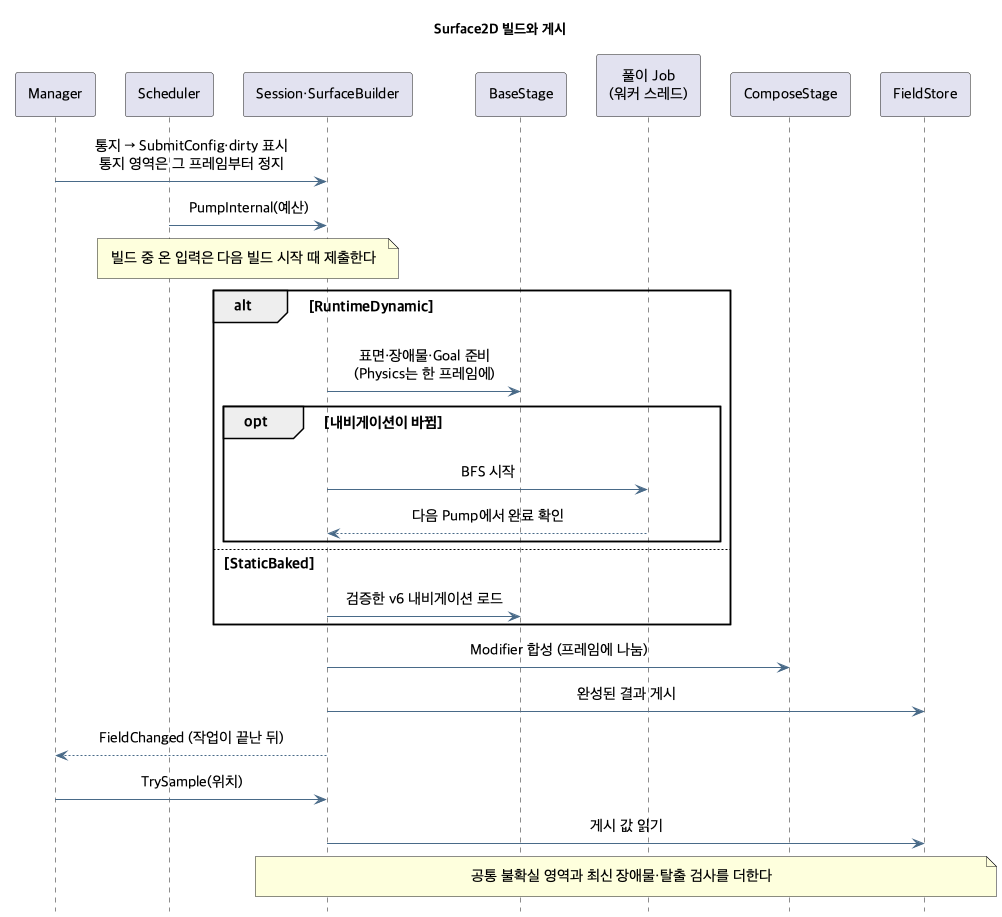
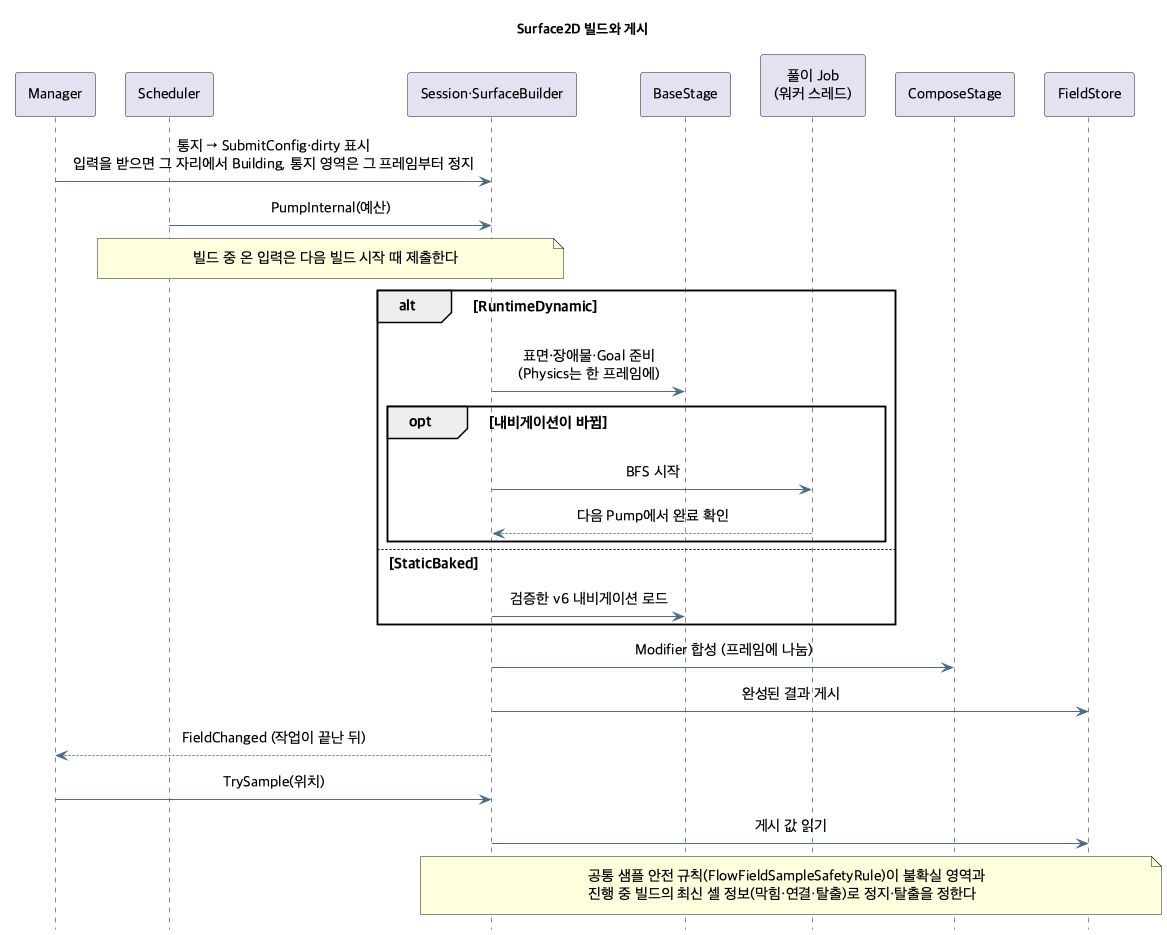
문서의 샘플 안전 규칙 위치와 빌드 흐름 그림을 지금 구조에 맞춤
- 두 모드 공통인 샘플 안전 규칙 설명을 Volume3D 절에서 "수명과 게시 규칙" 절로 옮긴다
- Volume 흐름 그림에서 지금은 없는 장애물 추적기와 SafetyState를 Session의 등록부와
  게시 필드로 바꾸고, 두 그림 모두 조회가 공통 규칙(FlowFieldSampleSafetyRule)을 거치고
  입력을 받으면 그 자리에서 Building이 된다는 것을 적는다. PNG를 다시 렌더링한다

diff --git a/ToyProject/Assets/_FlowField/Docs/TechnicalNotes.md b/ToyProject/Assets/_FlowField/Docs/TechnicalNotes.md
@@ -36,7 +36,13 @@ Player 측정(`PlayerProbe` 폴더, `Tools/run-player-probe.sh`)은 Editor와 `F
 ## 수명과 게시 규칙
 
 - **입력:** Builder는 최신 요청 한 벌과 대기 표시만 보관합니다(`FlowFieldRequestInbox`). Volume은 빌드 시작 때 요청을 BuildContext에 고정하고, Surface는 풀이가 끝나면 최신 요청으로 합성합니다. 빌드 중 온 입력은 다음 빌드로 넘기고, 그동안 두 모드 모두 Building을 유지합니다. Ready에서 받은 입력(설정, Goal, 장애물, Modifier)은 Session이 그 자리에서 Building으로 바꿉니다. 그래서 명령 직후 `State`와 `IsRebuilding`이 두 모드에서 같고, 다음 Pump를 기다리지 않습니다. 할 일이 없어진 Building은 게시된 필드가 있으면 Ready로 돌아갑니다.
-- **게시:** 완성된 결과만 게시하고, 일반 조회는 게시 값을 읽은 뒤 최신 장애물·탈출 안전성 검사를 더합니다.
+- **게시:** 완성된 결과만 게시하고, 일반 조회는 게시 값을 읽은 뒤 아래 샘플 안전 규칙을 적용합니다.
+- **샘플 안전 규칙(`FlowFieldSampleSafetyRule`, 두 모드·두 Bake 모드 공통):** 게시 값을 읽은 뒤 아래 순서로 덮어씁니다. "위험한 칸"은 불확실 영역에 있거나, 최신 정보에서 막혔거나, 걸을 수 없는(Surface 지면 없음) 칸입니다.
+  1. 지금 칸이 불확실 영역이거나 걸을 수 없으면 정지합니다.
+  2. 지금 칸이 막혔으면 탈출 방향으로 내보냅니다. 탈출 방향이 없거나, 그 방향 이웃이 격자 밖이거나 불확실 영역이거나 걸을 수 없으면 정지합니다. 이웃이 막힌 것은 괜찮습니다(장애물 깊은 곳에서는 여러 칸을 지나 빠져나갑니다).
+  3. 다음 칸이 있으면 지금 칸과 다음 칸을 감싸는 칸 중 하나라도 위험하거나 그 방향 연결이 끊겼으면 정지합니다.
+  4. Default Direction 칸(`NextCells == -1`)은 기본 방향의 축 부호로 갈 수 있는 이웃 조합 중 하나라도 격자 밖이거나 위험하면 정지합니다.
+  - "최신 정보"는 Surface의 경우 진행 중인 빌드의 작업 공간이 게시 필드와 같은 격자·지면일 때의 막힘·지면·연결·탈출이고, 그 밖에는 게시 필드입니다. 세션 상태(`IsRebuilding`)는 보지 않습니다.
 - **끝난 풀이:** 새 입력이 들어와 있어도 게시합니다. 계속 움직이는 Goal 때문에 결과가 끊기지 않게 하기 위해서입니다. Grid나 설정이 바뀌었거나 Goal이 사라진 경우만 거부합니다.
 - **Revision:** 두 모드 모두 게시 내용(셀 상태, 방향, 속도, Goal)이 실제로 바뀔 때만 증가하고 `FieldChanged`를 보냅니다. Volume은 `FlowFieldField.HasSameContent`(memcmp)로 비교합니다. 내용이 같아도 요청 스냅샷 갱신, 불확실 영역 정리, Ready 전환은 그대로 합니다.
 - **재진입 없음:** `FlowFieldExecutionBoundary`가 이벤트를 큐에 모아 가장 바깥 작업이 끝난 뒤 전달합니다. `Release`·`Stop`·`Restart`·Fault 이전의 이벤트는 버리고 `Released`만 항상 전달합니다. 핸들러가 서로를 계속 깨우면 100,000건에서 오류를 남기고 남은 일을 버립니다. 이때도 `Released`와 해제 이벤트는 순서대로 한 번 전달하고, 그 핸들러가 새로 만든 일은 버립니다.
@@ -72,12 +78,6 @@ Player 측정(`PlayerProbe` 폴더, `Tools/run-player-probe.sh`)은 Editor와 `F
 - 장애물·Modifier 단계는 64셀씩 진행합니다. 스텝마다 `OverlapBox`로 후보를 모아 후보가 닿는 셀만 정확히 검사합니다(`FlowFieldVolumeCellQuery`).
 - **부분 재계산:** Modifier만 바뀌면 게시된 내비게이션에 다시 합성하고, Goal만 바뀌면 장애물 결과와 Topology를 재사용합니다. Goal이 같은 셀 안에서 움직이면 빌드하지 않습니다. Goal을 지우면 진행 중인 빌드를 버립니다.
 - **등록하지 않은 Collider:** `RequestRebuild()`나 `NotifyCellsDirty()`의 전체 조회에서 반영됩니다.
-- **샘플 안전 규칙(`FlowFieldSampleSafetyRule`, 두 모드·두 Bake 모드 공통):** 게시 값을 읽은 뒤 아래 순서로 덮어씁니다. "위험한 칸"은 불확실 영역에 있거나, 최신 정보에서 막혔거나, 걸을 수 없는(Surface 지면 없음) 칸입니다.
-  1. 지금 칸이 불확실 영역이거나 걸을 수 없으면 정지합니다.
-  2. 지금 칸이 막혔으면 탈출 방향으로 내보냅니다. 탈출 방향이 없거나, 그 방향 이웃이 격자 밖이거나 불확실 영역이거나 걸을 수 없으면 정지합니다. 이웃이 막힌 것은 괜찮습니다(장애물 깊은 곳에서는 여러 칸을 지나 빠져나갑니다).
-  3. 다음 칸이 있으면 지금 칸과 다음 칸을 감싸는 칸 중 하나라도 위험하거나 그 방향 연결이 끊겼으면 정지합니다.
-  4. Default Direction 칸(`NextCells == -1`)은 기본 방향의 축 부호로 갈 수 있는 이웃 조합 중 하나라도 격자 밖이거나 위험하면 정지합니다.
-  - "최신 정보"는 Surface의 경우 진행 중인 빌드의 작업 공간이 게시 필드와 같은 격자·지면일 때의 막힘·지면·연결·탈출이고, 그 밖에는 게시 필드입니다. 세션 상태(`IsRebuilding`)는 보지 않습니다.
 - **배열 재사용:** 교체된 게시 배열을 다음 빌드에 씁니다(`FlowFieldSpareArrays`).
 
 ## Modifier
